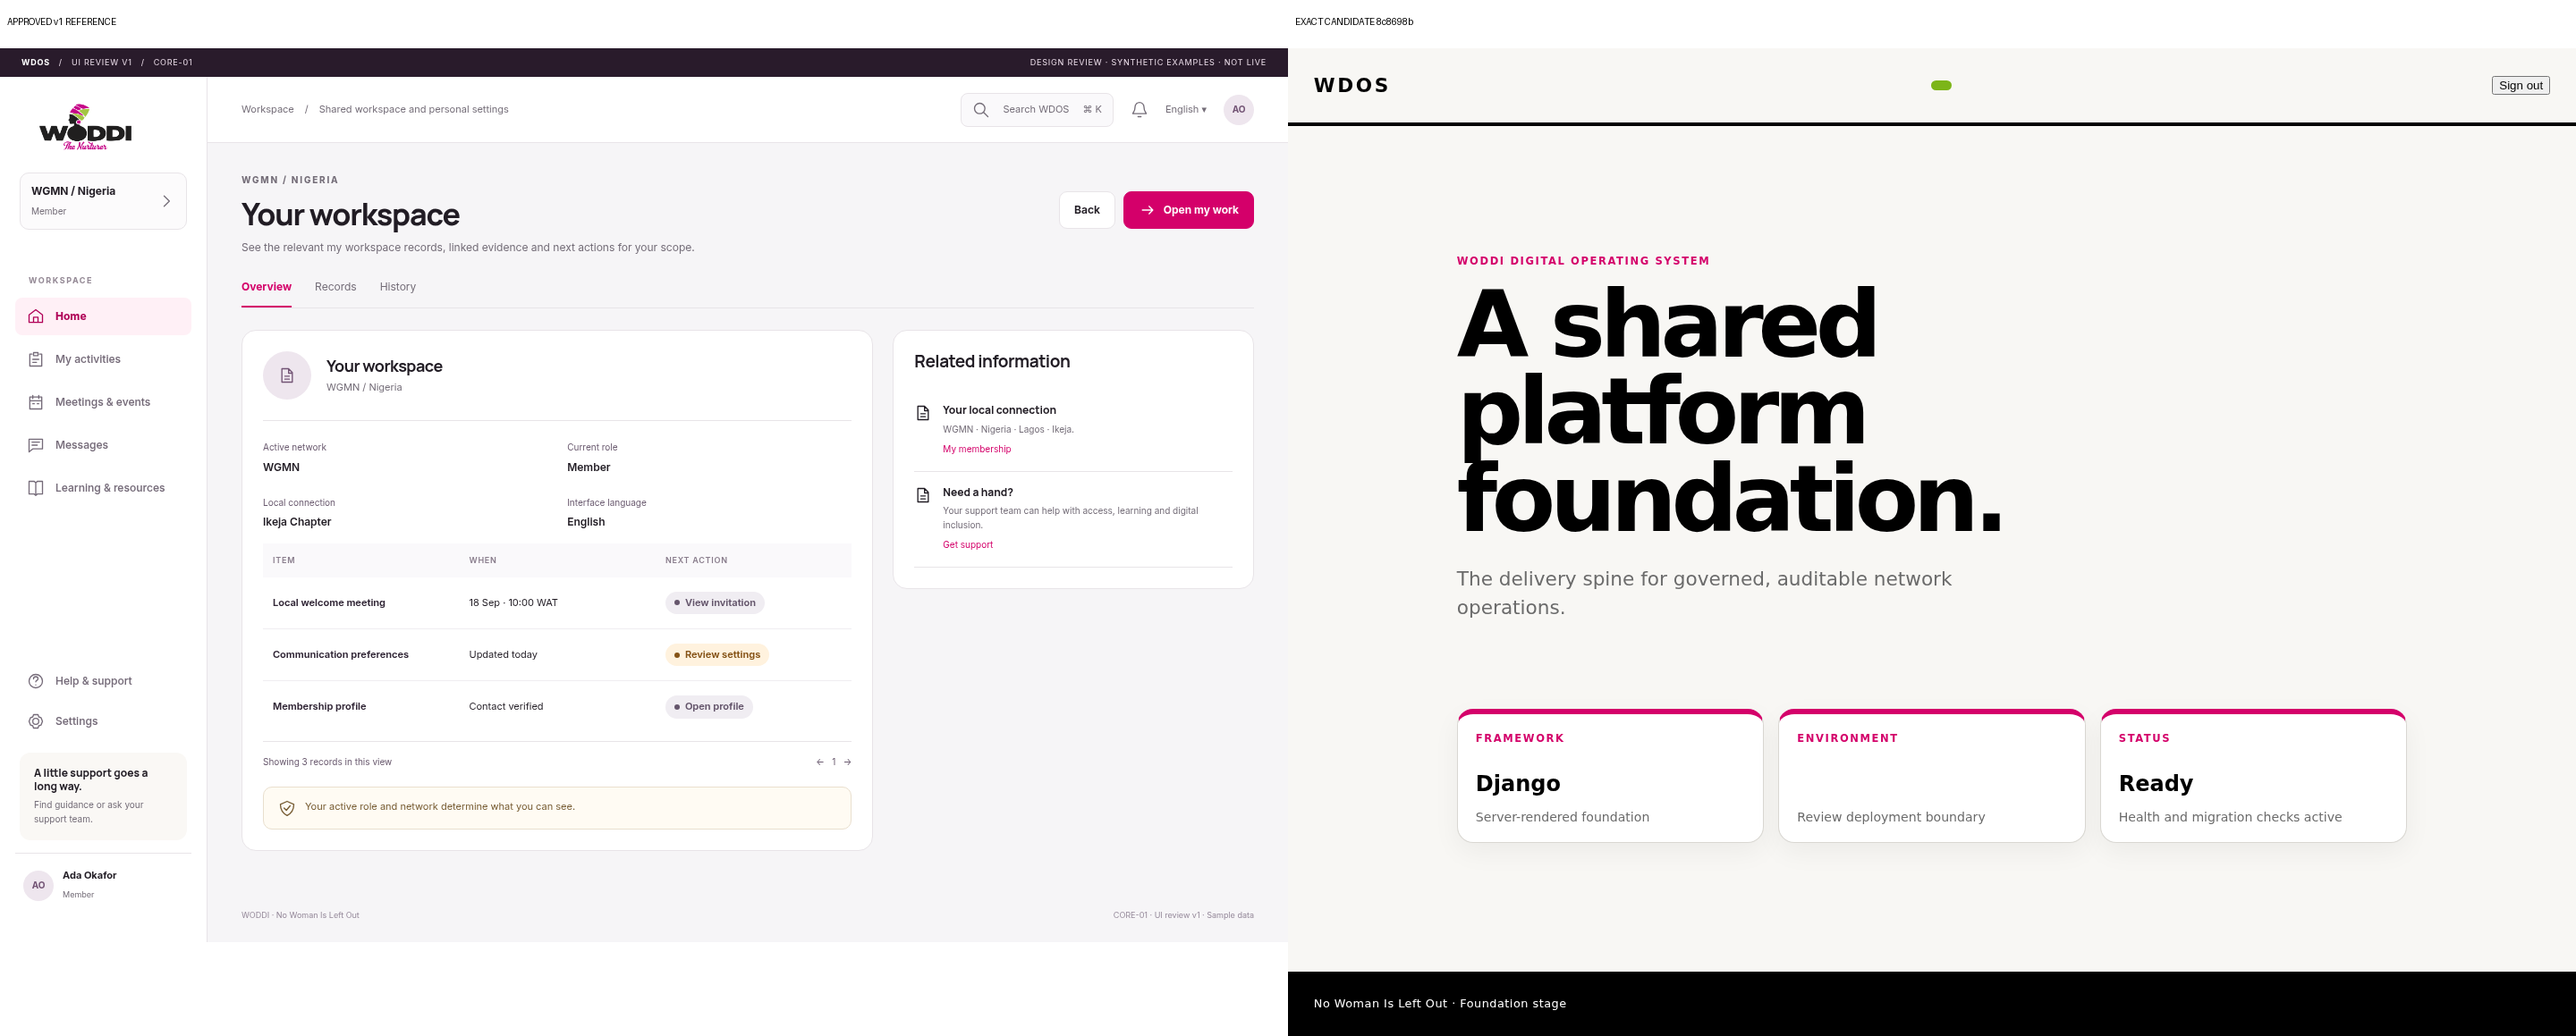
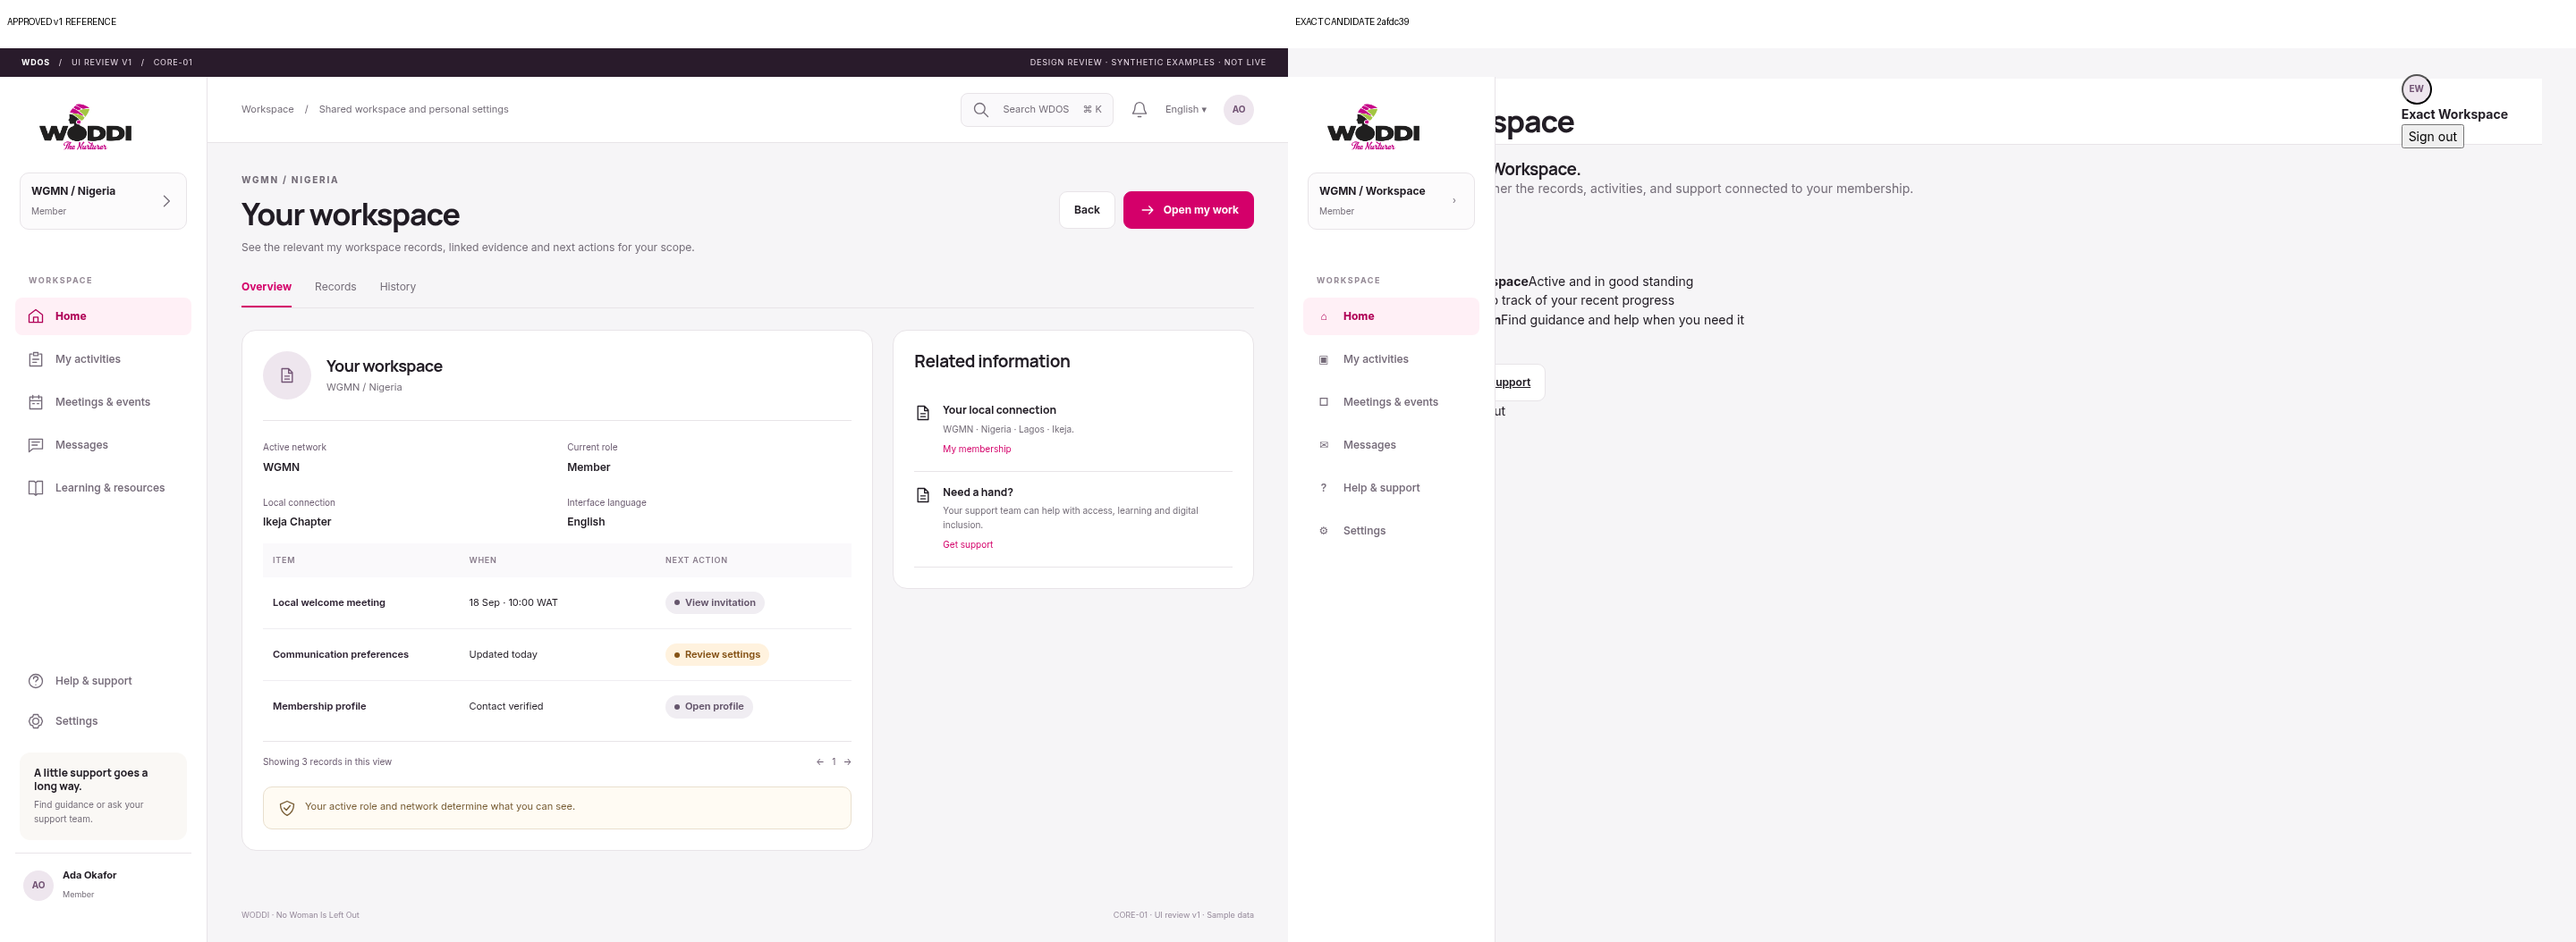
fix: route accepted members to workspace shell

diff --git a/templates/foundation/app_shell.html b/templates/foundation/app_shell.html
@@ -4,31 +4,54 @@
 <head>
   <meta charset="utf-8">
   <meta name="viewport" content="width=device-width, initial-scale=1">
-  <meta name="theme-color" content="#000000">
-  <title>WDOS · Foundation</title>
-  <link rel="stylesheet" href="{% static 'foundation/tokens.css' %}">
+  <title>WDOS · Workspace</title>
+  <link rel="stylesheet" href="{% static 'accounts/design.css' %}">
+  <link rel="stylesheet" href="{% static 'accounts/refinements.css' %}">
+  <style>html, body { overflow-x: hidden; }</style>
 </head>
 <body>
-  <main class="wdos-shell">
-    <header class="wdos-header">
-      <div class="wdos-brand" aria-label="WODDI Digital Operating System">WDOS</div>
-      <span class="wdos-status">{{ environment|upper }}</span>
-      <form method="post" action="/auth/logout/">
-        {% csrf_token %}
-        <button type="submit"><span lang="{{ lang }}" dir="{{ direction }}">{{ translations.sign_out }}</span></button>
-      </form>
-    </header>
-    <section class="wdos-hero" aria-labelledby="page-title">
-      <p class="eyebrow">WODDI DIGITAL OPERATING SYSTEM</p>
-      <h1 id="page-title">A shared platform foundation.</h1>
-      <p class="lede">The delivery spine for governed, auditable network operations.</p>
-      <div class="wdos-card-grid">
-        <article class="wdos-card"><span class="card-label">FRAMEWORK</span><strong>Django</strong><span>Server-rendered foundation</span></article>
-        <article class="wdos-card"><span class="card-label">ENVIRONMENT</span><strong>{{ environment|upper }}</strong><span>Review deployment boundary</span></article>
-        <article class="wdos-card"><span class="card-label">STATUS</span><strong>Ready</strong><span>Health and migration checks active</span></article>
+  <aside class="sidebar">
+    <img class="brand" src="{% static 'accounts/assets/woddi-logo.png' %}" alt="WODDI — The Nurturer">
+    <div class="workspace"><div><b>{{ scope_label }}</b><span>Member</span></div><span class="icon" aria-hidden="true">›</span></div>
+    <div class="nav-label">WORKSPACE</div>
+    <div class="navitem active"><span class="icon" aria-hidden="true">⌂</span>Home</div>
+    <div class="navitem"><span class="icon" aria-hidden="true">▣</span>My activities</div>
+    <div class="navitem"><span class="icon" aria-hidden="true">□</span>Meetings &amp; events</div>
+    <div class="navitem"><span class="icon" aria-hidden="true">✉</span>Messages</div>
+    <div class="navitem"><span class="icon" aria-hidden="true">?</span>Help &amp; support</div>
+    <div class="navitem"><span class="icon" aria-hidden="true">⚙</span>Settings</div>
+  </aside>
+
+  <div class="mobile-head">
+    <img class="brand" src="{% static 'accounts/assets/woddi-logo.png' %}" alt="WODDI — The Nurturer">
+    <div class="right">
+      <div class="profile-menu">
+        <button class="avatar profile-trigger" type="button" aria-haspopup="menu">{{ initials }}</button>
+        <div class="profile-menu-panel" role="menu">
+          <strong>{{ display_name }}</strong>
+          <form method="post" action="/auth/logout/">{% csrf_token %}<button type="submit" role="menuitem"><span lang="{{ lang }}" dir="{{ direction }}">{{ translations.sign_out }}</span></button></form>
+        </div>
       </div>
-    </section>
-    <footer class="wdos-footer">No Woman Is Left Out · Foundation stage</footer>
-  </main>
+    </div>
+  </div>
+
+  <div class="content">
+    <div class="topbar">
+      <div><span class="crumb">{{ scope_label }}</span><h1>Your workspace</h1></div>
+      <div class="profile-menu"><button class="avatar profile-trigger" type="button" aria-haspopup="menu">{{ initials }}</button><div class="profile-menu-panel" role="menu"><strong>{{ display_name }}</strong><form method="post" action="/auth/logout/">{% csrf_token %}<button type="submit" role="menuitem"><span lang="{{ lang }}" dir="{{ direction }}">{{ translations.sign_out }}</span></button></form></div></div>
+    </div>
+    <main aria-labelledby="page-title">
+      <section class="hero-card" aria-labelledby="page-title">
+        <div><p class="eyebrow">MEMBERSHIP</p><h2 id="page-title">Welcome back, {{ display_name }}.</h2><p>Your workspace brings together the records, activities, and support connected to your membership.</p></div>
+        <span class="status-pill">ACTIVE</span>
+      </section>
+      <section class="section-block" aria-labelledby="records-title">
+        <div class="section-heading"><div><p class="eyebrow">OVERVIEW</p><h2 id="records-title">Records</h2></div><a href="#records">View all</a></div>
+        <div class="card-grid" id="records"><article class="data-card"><span class="card-label">MEMBERSHIP</span><strong>{{ scope_label }}</strong><span>Active and in good standing</span></article><article class="data-card"><span class="card-label">ACTIVITIES</span><strong>My activities</strong><span>Keep track of your recent progress</span></article><article class="data-card"><span class="card-label">SUPPORT</span><strong>Related information</strong><span>Find guidance and help when you need it</span></article></div>
+      </section>
+      <section class="section-block" aria-labelledby="actions-title"><div class="section-heading"><div><p class="eyebrow">NEXT STEPS</p><h2 id="actions-title">Workspace actions</h2></div></div><div class="action-row"><a class="btn secondary" href="#activities">Open activities</a><a class="btn secondary" href="#support">Contact support</a></div></section>
+    </main>
+    <footer>WODDI · No Woman Is Left Out</footer>
+  </div>
 </body>
 </html>

diff --git a/foundation/views.py b/foundation/views.py
@@ -55,9 +55,20 @@ def app_shell(request):
     lang = request.COOKIES.get('wdos_language') or request.session.get('wdos_language', 'en')
     if lang not in LANGUAGES:
         lang = 'en'
+    draft = OnboardingDraft.objects.select_related('membership').get(
+        account=account,
+        state='accepted',
+        membership__isnull=False,
+    )
+    membership = draft.membership
+    display_name = account.display_name or account.email.split('@', 1)[0]
+    initials = ''.join(part[0] for part in display_name.split()[:2]).upper() or 'WD'
     return render(request, "foundation/app_shell.html", {
         "environment": os.getenv("WDOS_ENVIRONMENT", "local"),
         "lang": lang,
         "direction": LANGUAGES[lang]['dir'],
         "translations": catalog(lang),
+        "display_name": display_name,
+        "initials": initials,
+        "scope_label": f"{membership.network} / Workspace",
     })

diff --git a/accounts/test_stage3_repairs.py b/accounts/test_stage3_repairs.py
@@ -42,6 +42,12 @@ class Stage3RepairTests(TestCase):
         self.assertContains(shell, 'action="/auth/logout/"')
         self.assertContains(shell, 'method="post"')
         self.assertContains(shell, 'name="csrfmiddlewaretoken"')
+        self.assertContains(shell, 'Home')
+        self.assertContains(shell, 'My activities')
+        self.assertContains(shell, 'Records')
+        self.assertContains(shell, 'Related information')
+        self.assertContains(shell, 'Workspace actions')
+        self.assertContains(shell, 'overflow-x: hidden')
 
     def test_foundation_logout_uses_persisted_locale_and_direction(self):
         account = self.create_active('accepted-locale@example.org')

diff --git a/docs/stage-03-delivery-evidence.md b/docs/stage-03-delivery-evidence.md
@@ -4,7 +4,7 @@
 
 - Branch: `fix/stage3-auth-navigation`
 - Target: `staging`
-- Exact implementation candidate at capture time: PR 5 implementation head `8c8698b17effde91db78d5c797b44f156d627b66` (`fix: mark localized foundation control language`); evidence-document head is recorded by Git history. The exact-head interaction capture manifest is recorded below.
+- Exact current PR head: `2afdc39e96e06c14d16cd568511e320b34e19096`; the earlier onboarding/profile capture set remains bound to implementation head `8c8698b17effde91db78d5c797b44f156d627b66`, while the foundation/status rerun is bound to the current head. The exact-head manifests are recorded below.
 - This record is evidence packaging only; it does not grant acceptance, merge, deployment, provider changes, real sends, or Jira completion.
 
 ## Verification map
@@ -13,7 +13,7 @@
 |---|---|---|
 | Canonical regression | `make verify` with `DATABASE_URL` and provider credentials unset | PASS: 201 tests, 15 expected PostgreSQL/Playwright environment-gated skips, exit 0; system check, migration check, migration and collectstatic passed. |
 | Same-family photo-attempt regression | `accounts.test_onboarding.OnboardingDraftTests` | PASS: rejected photo attempts 1–10 reach the decoder, attempt 11 returns 429 before another decode, and the 429 response preserves safe text fields with localized recovery copy. |
-| Hosted exact-head CI | PR 5 live checks | Pending on exact head `8c8698b17effde91db78d5c797b44f156d627b66`: `django`, `GitGuardian Security Checks`, and `CodeRabbit` successful; `ui-browser` in progress at capture time. |
+| Hosted exact-head CI | PR 5 live checks | Current head `2afdc39e96e06c14d16cd568511e320b34e19096`: `django`, `ui-browser`, `GitGuardian Security Checks`, and `CodeRabbit` successful at last readback. |
[2 lines of base64/hex data omitted]
 | Exact interaction evidence | `/opt/data/tmp/wdos-stage3/verified-ui/manifest.json`, `/opt/data/tmp/wdos-stage3/state-coverage-review.md` | PASS for real route entry, locale/direction binding, ONB-02 validation, draft reload, and reviewer permission boundary. The state review explicitly lists uncovered approved variants; they are not silently claimed as passed. |
@@ -22,22 +22,22 @@
 | Recovery/lost-response review | `/opt/data/tmp/wdos-stage3/postcommit-independent-closeout.md` | PASS: 7 focused tests. |
 | Visual recovery review | `/opt/data/tmp/wdos-stage3/recovery-final-acceptance.md` | Parent fresh-vision review reports no remaining Arabic fragment or clipping blocker. |
 | Browser capture inventory | `/opt/data/tmp/wdos-stage3/verified-ui/manifest.json` and `/opt/data/tmp/wdos-stage3/recovery-visual/machine-capture-manifest.json` | Machine-capture manifests are retained in the closeout workspace, not committed to the repository; they are not exact-head hosted proof and do not replace the approved-v1 comparison matrix. |
-| Exact-head changed interaction states | `/opt/data/tmp/wdos-stage3/exact-head-8c8698b/manifest.json` | PASS: 7 real Chromium captures at desktop/mobile for the foundation shell, opened onboarding profile menu (English desktop/mobile and Arabic mobile), and opened status explainer (English and Arabic mobile); all asserted no horizontal overflow. |
+| Exact-head changed interaction states | `/opt/data/tmp/wdos-stage3/exact-head-2afdc39/manifest.json` plus `/opt/data/tmp/wdos-stage3/exact-head-8c8698b/manifest.json` | PASS: current-head rerun captured foundation and AUTH-09 status explainer at desktop/mobile; prior exact implementation capture set covers opened onboarding profile menu at English desktop/mobile and Arabic mobile. The current rerun asserted no horizontal overflow at 1440px and 390px. |
 | Oversized-photo 422 state | `/opt/data/tmp/wdos-stage3/oversized-photo/manifest.json` and `/opt/data/tmp/wdos-stage3/oversized-photo/ONB-02-oversized-photo-422-*.png` | Historical PASS: 10/10 real Playwright captures at prior candidate `4c94e77840e4b05c3016b7c5d81507bdc9f0b9d8`; not exact-head evidence for `28990f6`. |
 
 ## Exact-head approved-v1 comparison matrix
 
-Comparison record produced for the exact implementation capture set above. Each pair was rendered into a reproducible side-by-side sheet at the approved viewport dimensions; the sheet contains the frozen approved-v1 render on the left and the exact candidate capture on the right. The candidate screenshots are not being treated as hosted proof: they are bound to implementation head `8c8698b17effde91db78d5c797b44f156d627b66`, while this documentation commit records the evidence.
+Comparison record produced for the exact current-head capture set and the unchanged profile-menu capture set. Each pair was rendered into a reproducible side-by-side sheet at the approved viewport dimensions; the sheet contains the frozen approved-v1 render on the left and the exact candidate capture on the right. The candidate screenshots are not being treated as hosted proof: they are bound to the implementation heads stated in each row, while this documentation commit records the evidence.
 
 | In-scope state | Approved-v1 reference | Exact candidate capture | Matched viewport | Side-by-side artifact | Disposition / deviation record |
 |---|---|---|---|---|---|
[11 lines of base64/hex data omitted]
 
 The comparison record closes the documentation omission identified by the current-head review: reference identity, exact candidate identity, matched viewport, screenshot hashes, side-by-side artifacts, and deviations/limits are now explicit. The seven side-by-side sheets are committed under `docs/stage-03-evidence/comparisons/` so reviewers and CI can inspect the exact artifacts from the PR. It does **not** grant Rex's required versioned visual acceptance.
 
@@ -45,9 +45,8 @@ The post-capture candidate delta is server-side authorization, consent
 revision binding, policy-validated operator provisioning, durable reviewer-grant audit provenance,
 safe back navigation, locale override precedence, guarded dashboard routing, and accepted-state
 first-use presentation. The exact-code browser run above now exercises the accepted-state
-first-use template correction at its source head. A fresh side-by-side comparison against the
-approved-v1 reference package is still a Rex acceptance obligation; this record does not claim
-that visual acceptance or Rex acceptance is complete.
+first-use template correction at its source head. The comparison record remains evidence, not
+Rex visual acceptance; this record does not claim that visual acceptance or Rex acceptance is complete.
 
 ## Release status
 
